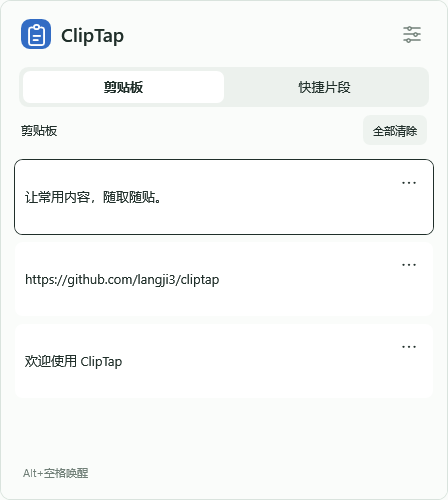
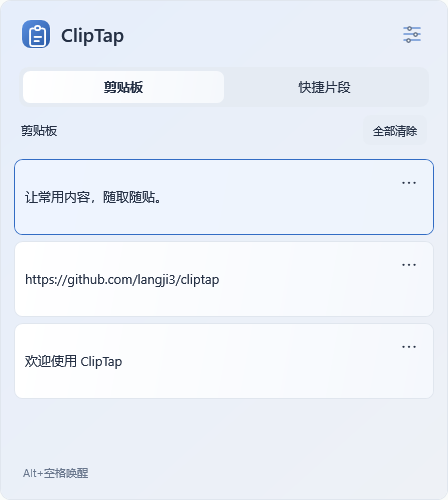
fix: 增强主题色层次和图标渐变质感

diff --git a/src/ClipTap/MainWindow.xaml b/src/ClipTap/MainWindow.xaml
@@ -4,17 +4,17 @@
         WindowStyle="None" ResizeMode="NoResize" ShowInTaskbar="False" Topmost="True"
         PreviewKeyDown="OnKeyDown" Deactivated="OnDeactivated" Closing="OnClosing"
         UseLayoutRounding="True" SnapsToDevicePixels="True">
-  <Border x:Name="PanelSurface" BorderBrush="{DynamicResource Line}" BorderThickness="1" CornerRadius="10" Background="{DynamicResource Page}" RenderTransformOrigin="0.5,0.45">
+  <Border x:Name="PanelSurface" BorderBrush="{DynamicResource CardLine}" BorderThickness="1" CornerRadius="10" Background="{DynamicResource PanelGradient}" RenderTransformOrigin="0.5,0.45">
     <Border.RenderTransform><TransformGroup><ScaleTransform x:Name="EntranceScale" /><TranslateTransform x:Name="EntranceOffset" /></TransformGroup></Border.RenderTransform>
     <Grid>
       <Grid.RowDefinitions><RowDefinition Height="66" /><RowDefinition Height="*" /><RowDefinition Height="Auto" /></Grid.RowDefinitions>
       <Grid x:Name="HeaderDragArea" Background="Transparent" Cursor="SizeAll" MouseLeftButtonDown="OnHeaderDrag">
         <StackPanel Orientation="Horizontal" VerticalAlignment="Center" Margin="20,0,0,0">
-          <Border x:Name="BrandIcon" Width="30" Height="30" CornerRadius="9" Background="{DynamicResource Accent}" Margin="0,0,10,0">
+          <Border x:Name="BrandIcon" Width="30" Height="30" CornerRadius="9" Background="{DynamicResource BrandGradient}" BorderBrush="#40FFFFFF" BorderThickness="1" Margin="0,0,10,0">
             <Viewbox Width="30" Height="30"><Canvas Width="64" Height="64">
-              <Path Data="M24,18 L21,18 Q17,18 17,23 L17,50 Q17,55 22,55 L44,55 Q49,55 49,50 L49,23 Q49,18 44,18 L42,18" Stroke="{DynamicResource OnAccent}" StrokeThickness="4" StrokeStartLineCap="Round" StrokeEndLineCap="Round" />
-              <Rectangle Canvas.Left="25" Canvas.Top="11" Width="16" Height="13" RadiusX="4" RadiusY="4" Stroke="{DynamicResource OnAccent}" StrokeThickness="4" />
-              <Path Data="M26,35 L40,35 M26,44 L35,44" Stroke="{DynamicResource OnAccent}" StrokeThickness="4" StrokeStartLineCap="Round" StrokeEndLineCap="Round" />
+              <Path Data="M24,18 L21,18 Q17,18 17,23 L17,50 Q17,55 22,55 L44,55 Q49,55 49,50 L49,23 Q49,18 44,18 L42,18" Stroke="{DynamicResource LogoInk}" StrokeThickness="4" StrokeStartLineCap="Round" StrokeEndLineCap="Round" />
+              <Rectangle Canvas.Left="25" Canvas.Top="11" Width="16" Height="13" RadiusX="4" RadiusY="4" Stroke="{DynamicResource LogoInk}" StrokeThickness="4" />
+              <Path Data="M26,35 L40,35 M26,44 L35,44" Stroke="{DynamicResource LogoInk}" StrokeThickness="4" StrokeStartLineCap="Round" StrokeEndLineCap="Round" />
             </Canvas></Viewbox>
           </Border>
           <Button x:Name="BackButton" Style="{StaticResource IconButton}" Visibility="Collapsed" Margin="-6,0,8,0" ToolTip="返回" AutomationProperties.Name="返回" Click="OnBack">
@@ -24,7 +24,7 @@
         </StackPanel>
         <Button x:Name="SettingsButton" Style="{StaticResource IconButton}" Margin="0,0,18,0" HorizontalAlignment="Right" ToolTip="设置" AutomationProperties.Name="设置" Click="OnSettings">
           <Canvas Width="22" Height="22">
-            <Path Data="M3,5 L19,5 M3,11 L19,11 M3,17 L19,17" Stroke="{DynamicResource Muted}" StrokeThickness="1.5" StrokeStartLineCap="Round" StrokeEndLineCap="Round" />
+            <Path Data="M3,5 L19,5 M3,11 L19,11 M3,17 L19,17" Stroke="{DynamicResource Accent}" Opacity="0.7" StrokeThickness="1.5" StrokeStartLineCap="Round" StrokeEndLineCap="Round" />
             <Ellipse Canvas.Left="6" Canvas.Top="2.5" Width="5" Height="5" Fill="{DynamicResource Page}" Stroke="{DynamicResource Muted}" StrokeThickness="1.5" />
             <Ellipse Canvas.Left="12" Canvas.Top="8.5" Width="5" Height="5" Fill="{DynamicResource Page}" Stroke="{DynamicResource Muted}" StrokeThickness="1.5" />
             <Ellipse Canvas.Left="5" Canvas.Top="14.5" Width="5" Height="5" Fill="{DynamicResource Page}" Stroke="{DynamicResource Muted}" StrokeThickness="1.5" />
@@ -54,10 +54,10 @@
               <Setter Property="Padding" Value="10,8" /><Setter Property="Margin" Value="0,3" />
               <Setter Property="MinHeight" Value="76" />
               <Setter Property="Template"><Setter.Value><ControlTemplate TargetType="ListBoxItem">
-                <Border x:Name="Row" Background="{DynamicResource Field}" BorderBrush="Transparent" BorderThickness="1" CornerRadius="8" Padding="{TemplateBinding Padding}"><ContentPresenter /></Border>
+                <Border x:Name="Row" Background="{DynamicResource CardGradient}" BorderBrush="{DynamicResource CardLine}" BorderThickness="1" CornerRadius="8" Padding="{TemplateBinding Padding}"><ContentPresenter /></Border>
                 <ControlTemplate.Triggers>
                   <Trigger Property="IsMouseOver" Value="True"><Setter TargetName="Row" Property="Background" Value="{DynamicResource Hover}" /></Trigger>
-                  <Trigger Property="IsSelected" Value="True"><Setter TargetName="Row" Property="BorderBrush" Value="{DynamicResource Ink}" /></Trigger>
+                  <Trigger Property="IsSelected" Value="True"><Setter TargetName="Row" Property="BorderBrush" Value="{DynamicResource Accent}" /><Setter TargetName="Row" Property="Background" Value="{DynamicResource CardSelectedGradient}" /></Trigger>
                 </ControlTemplate.Triggers>
               </ControlTemplate></Setter.Value></Setter>
             </Style></ListBox.ItemContainerStyle>

diff --git a/src/ClipTap/Views/SettingsView.xaml b/src/ClipTap/Views/SettingsView.xaml
@@ -5,7 +5,7 @@
       <Setter Property="Width" Value="32" /><Setter Property="Height" Value="32" /><Setter Property="Margin" Value="5,0,0,0" /><Setter Property="Cursor" Value="Hand" />
       <Setter Property="Template"><Setter.Value><ControlTemplate TargetType="RadioButton">
         <Border x:Name="Ring" BorderBrush="Transparent" BorderThickness="2" CornerRadius="16" Padding="4">
-          <Ellipse Fill="{TemplateBinding Background}" />
+          <Grid><Ellipse Fill="{TemplateBinding Background}" /><Ellipse><Ellipse.Fill><LinearGradientBrush StartPoint="0,0" EndPoint="1,1"><GradientStop Color="#60FFFFFF" Offset="0" /><GradientStop Color="#00FFFFFF" Offset="0.5" /><GradientStop Color="#250C1830" Offset="1" /></LinearGradientBrush></Ellipse.Fill></Ellipse></Grid>
         </Border>
         <ControlTemplate.Triggers>
           <Trigger Property="IsChecked" Value="True"><Setter TargetName="Ring" Property="BorderBrush" Value="{DynamicResource Ink}" /></Trigger>
@@ -35,6 +35,6 @@
     </ScrollViewer>
     <TextBlock x:Name="ErrorLabel" Grid.Row="1" Foreground="{DynamicResource Danger}" TextWrapping="Wrap" Margin="0,8,0,4" />
     <local:InlineConfirmation x:Name="Confirmation" Grid.Row="2" />
-    <Button x:Name="SaveButton" Grid.Row="3" Content="保存" HorizontalAlignment="Right" MinWidth="76" Margin="0,8,0,0" Background="{DynamicResource Accent}" Foreground="{DynamicResource OnAccent}" Click="OnSave" />
+    <Button x:Name="SaveButton" Grid.Row="3" Content="保存" HorizontalAlignment="Right" MinWidth="76" Margin="0,8,0,0" Background="{DynamicResource ActionGradient}" Foreground="{DynamicResource OnAccent}" Click="OnSave" />
   </Grid>
 </UserControl>

diff --git a/src/ClipTap/Views/InlineConfirmation.xaml b/src/ClipTap/Views/InlineConfirmation.xaml
@@ -5,7 +5,7 @@
       <TextBlock x:Name="MessageLabel" TextWrapping="Wrap" Foreground="{DynamicResource Ink}" FontSize="12" />
       <StackPanel Orientation="Horizontal" HorizontalAlignment="Right" Margin="0,10,0,0">
         <Button x:Name="CancelButton" Content="取消" Padding="12,6" Background="Transparent" Click="OnCancel" />
-        <Button x:Name="ConfirmButton" Content="确认" Padding="12,6" Margin="8,0,0,0" Background="{DynamicResource Accent}" Foreground="{DynamicResource OnAccent}" Click="OnConfirm" />
+        <Button x:Name="ConfirmButton" Content="确认" Padding="12,6" Margin="8,0,0,0" Background="{DynamicResource ActionGradient}" Foreground="{DynamicResource OnAccent}" Click="OnConfirm" />
       </StackPanel>
     </StackPanel>
   </Border>

diff --git a/src/ClipTap/Views/SnippetView.xaml b/src/ClipTap/Views/SnippetView.xaml
@@ -24,7 +24,7 @@
     <local:InlineConfirmation x:Name="Confirmation" Grid.Row="2" />
     <Grid Grid.Row="3" Margin="0,8,0,0">
       <Button x:Name="DeleteButton" Content="删除" HorizontalAlignment="Left" Background="Transparent" Foreground="{DynamicResource Danger}" Padding="0,9" Click="OnDelete" />
-      <Button x:Name="SaveButton" Content="保存" HorizontalAlignment="Right" MinWidth="76" Background="{DynamicResource Accent}" Foreground="{DynamicResource OnAccent}" Click="OnSave" />
+      <Button x:Name="SaveButton" Content="保存" HorizontalAlignment="Right" MinWidth="76" Background="{DynamicResource ActionGradient}" Foreground="{DynamicResource OnAccent}" Click="OnSave" />
     </Grid>
   </Grid>
 </UserControl>

diff --git a/src/ClipTap/Services/ThemeService.cs b/src/ClipTap/Services/ThemeService.cs
@@ -37,15 +37,15 @@ internal sealed class ThemeService : IDisposable
         };
         var colors = new Dictionary<string, string>
         {
-            ["Ink"] = dark ? "#E6EEE9" : "#202F2A",
-            ["Muted"] = dark ? "#A0B0A7" : "#718078",
+            ["Ink"] = dark ? "#E9EDF5" : "#253044",
+            ["Muted"] = dark ? "#A6AFC0" : "#69778D",
             ["Accent"] = palette[dark ? 1 : 0],
             ["OnAccent"] = dark ? "#182127" : "#FFFFFF",
             ["Page"] = dark ? "#1D2228" : "#FAFCFA",
-            ["Chrome"] = dark ? "#272F38" : "#ECF1ED",
+            ["Chrome"] = dark ? "#242B37" : "#E5EBF3",
             ["Field"] = dark ? "#252D35" : "#FFFFFF",
             ["TabSurface"] = dark ? "#39434C" : "#FFFFFF",
-            ["ButtonSurface"] = dark ? "#34404B" : "#EEF3EF",
+            ["ButtonSurface"] = dark ? "#354052" : "#E7EDF5",
             ["Hover"] = dark ? "#2B3640" : "#F0F4F1",
             ["Selected"] = palette[dark ? 3 : 2],
             ["SelectedBorder"] = palette[dark ? 5 : 4],
@@ -59,6 +59,25 @@ internal sealed class ThemeService : IDisposable
             var brush = new SolidColorBrush((Color)ColorConverter.ConvertFromString(value));
             brush.Freeze(); resources[key] = brush;
         }
+        // Keep chroma in highlights; neutral surfaces carry the text and visual hierarchy.
+        var hue = (Color)ColorConverter.ConvertFromString(palette[0]);
+        var glow = (Color)ColorConverter.ConvertFromString(palette[1]);
+        Color Neutral(string hex) => (Color)ColorConverter.ConvertFromString(hex);
+        Color Mix(Color a, Color b, double amount) => Color.FromRgb(
+            (byte)(a.R + (b.R - a.R) * amount), (byte)(a.G + (b.G - a.G) * amount), (byte)(a.B + (b.B - a.B) * amount));
+        void Gradient(string key, Color start, Color end)
+        {
+            var brush = new LinearGradientBrush(start, end, new Point(0, 0), new Point(1, 1));
+            brush.Freeze(); resources[key] = brush;
+        }
+        Gradient("PanelGradient", Mix(Neutral(dark ? "#20242D" : "#F4F7FB"), glow, dark ? .09 : .12), Neutral(dark ? "#171B23" : "#EEF1F6"));
+        Gradient("CardGradient", Neutral(dark ? "#2D333F" : "#FFFFFF"), Mix(Neutral(dark ? "#252A34" : "#FAFBFD"), glow, .035));
+        Gradient("CardSelectedGradient", Mix(Neutral(dark ? "#303848" : "#FFFFFF"), glow, .13), Mix(Neutral(dark ? "#252C39" : "#F7F9FC"), glow, .07));
+        Gradient("BrandGradient", Mix(hue, glow, .52), Mix(hue, Neutral("#111D3D"), .24));
+        Gradient("ActionGradient", Mix((Color)ColorConverter.ConvertFromString(palette[dark ? 1 : 0]), Neutral("#FFFFFF"), .12), (Color)ColorConverter.ConvertFromString(palette[dark ? 1 : 0]));
+        Gradient("TabGradient", Neutral(dark ? "#465162" : "#FFFFFF"), Neutral(dark ? "#353E4D" : "#F5F8FC"));
+        resources["CardLine"] = new SolidColorBrush(Neutral(dark ? "#414958" : "#E0E6EE"));
+        resources["LogoInk"] = Brushes.White;
         foreach (Window window in System.Windows.Application.Current.Windows) ApplyTitleBar(window);
     }
 

diff --git a/src/ClipTap/MainWindow.xaml.cs b/src/ClipTap/MainWindow.xaml.cs
@@ -103,8 +103,8 @@ public partial class MainWindow : Window
         if (_menuId.HasValue) { rows = rows.Select(r => r with { ActionsOpen = r.Id == _menuId }).ToList(); Entries.ItemsSource = rows; }
         Entries.SelectedItem = rows.FirstOrDefault(r => r.Id == selected) ?? rows.FirstOrDefault();
         if (Entries.SelectedItem is not null) Entries.ScrollIntoView(Entries.SelectedItem);
-        if (_tab == 0) HistoryTab.SetResourceReference(BackgroundProperty, "TabSurface"); else HistoryTab.Background = Brushes.Transparent;
-        if (_tab == 1) SnippetsTab.SetResourceReference(BackgroundProperty, "TabSurface"); else SnippetsTab.Background = Brushes.Transparent;
+        if (_tab == 0) HistoryTab.SetResourceReference(BackgroundProperty, "TabGradient"); else HistoryTab.Background = Brushes.Transparent;
+        if (_tab == 1) SnippetsTab.SetResourceReference(BackgroundProperty, "TabGradient"); else SnippetsTab.Background = Brushes.Transparent;
         HistoryTab.FontWeight = _tab == 0 ? FontWeights.SemiBold : FontWeights.Normal;
         SnippetsTab.FontWeight = _tab == 1 ? FontWeights.SemiBold : FontWeights.Normal;
         SnippetActions.Visibility = _tab == 1 ? Visibility.Visible : Visibility.Collapsed;

diff --git a/docs/verification-20260916.md b/docs/verification-20260916.md
@@ -12,6 +12,8 @@
 
 ## 验证结果
 
+色彩层次追加：背景、卡片、选中卡片、Tab 高光及主按钮使用分别定义的渐变；蓝/绿/紫共享中性文字层级。面板品牌图标使用渐变和白色线条，设置色板添加柔和高光；未改变 Tab 或卡片操作。沿用六组主题截图及既有测试检查，颜色资源集中维护，无新增依赖或持续渲染循环。
+
 图片清晰度追加：用户要求直接使用原图；取消 160×96 的解码缩小，保留系统图片的原始像素，卡片使用高质量插值显示。测试改为验证宽图、长图的原始尺寸及逐像素一致性、透明度。原始分辨率图片占用更多内存，仍不落盘；粘贴继续恢复 Windows 原记录。
 
 最新视觉微调：去掉所有卡片左侧图标和图片标题，图片直接左对齐展示；唤起改为 97.5%→100% 缩放、4px 上移的 240ms 四次缓出，淡入 180ms，并在 Show 前准备透明状态。23 项测试复测通过、合成图文截图已检查；动效实际观感由用户试用确认。
